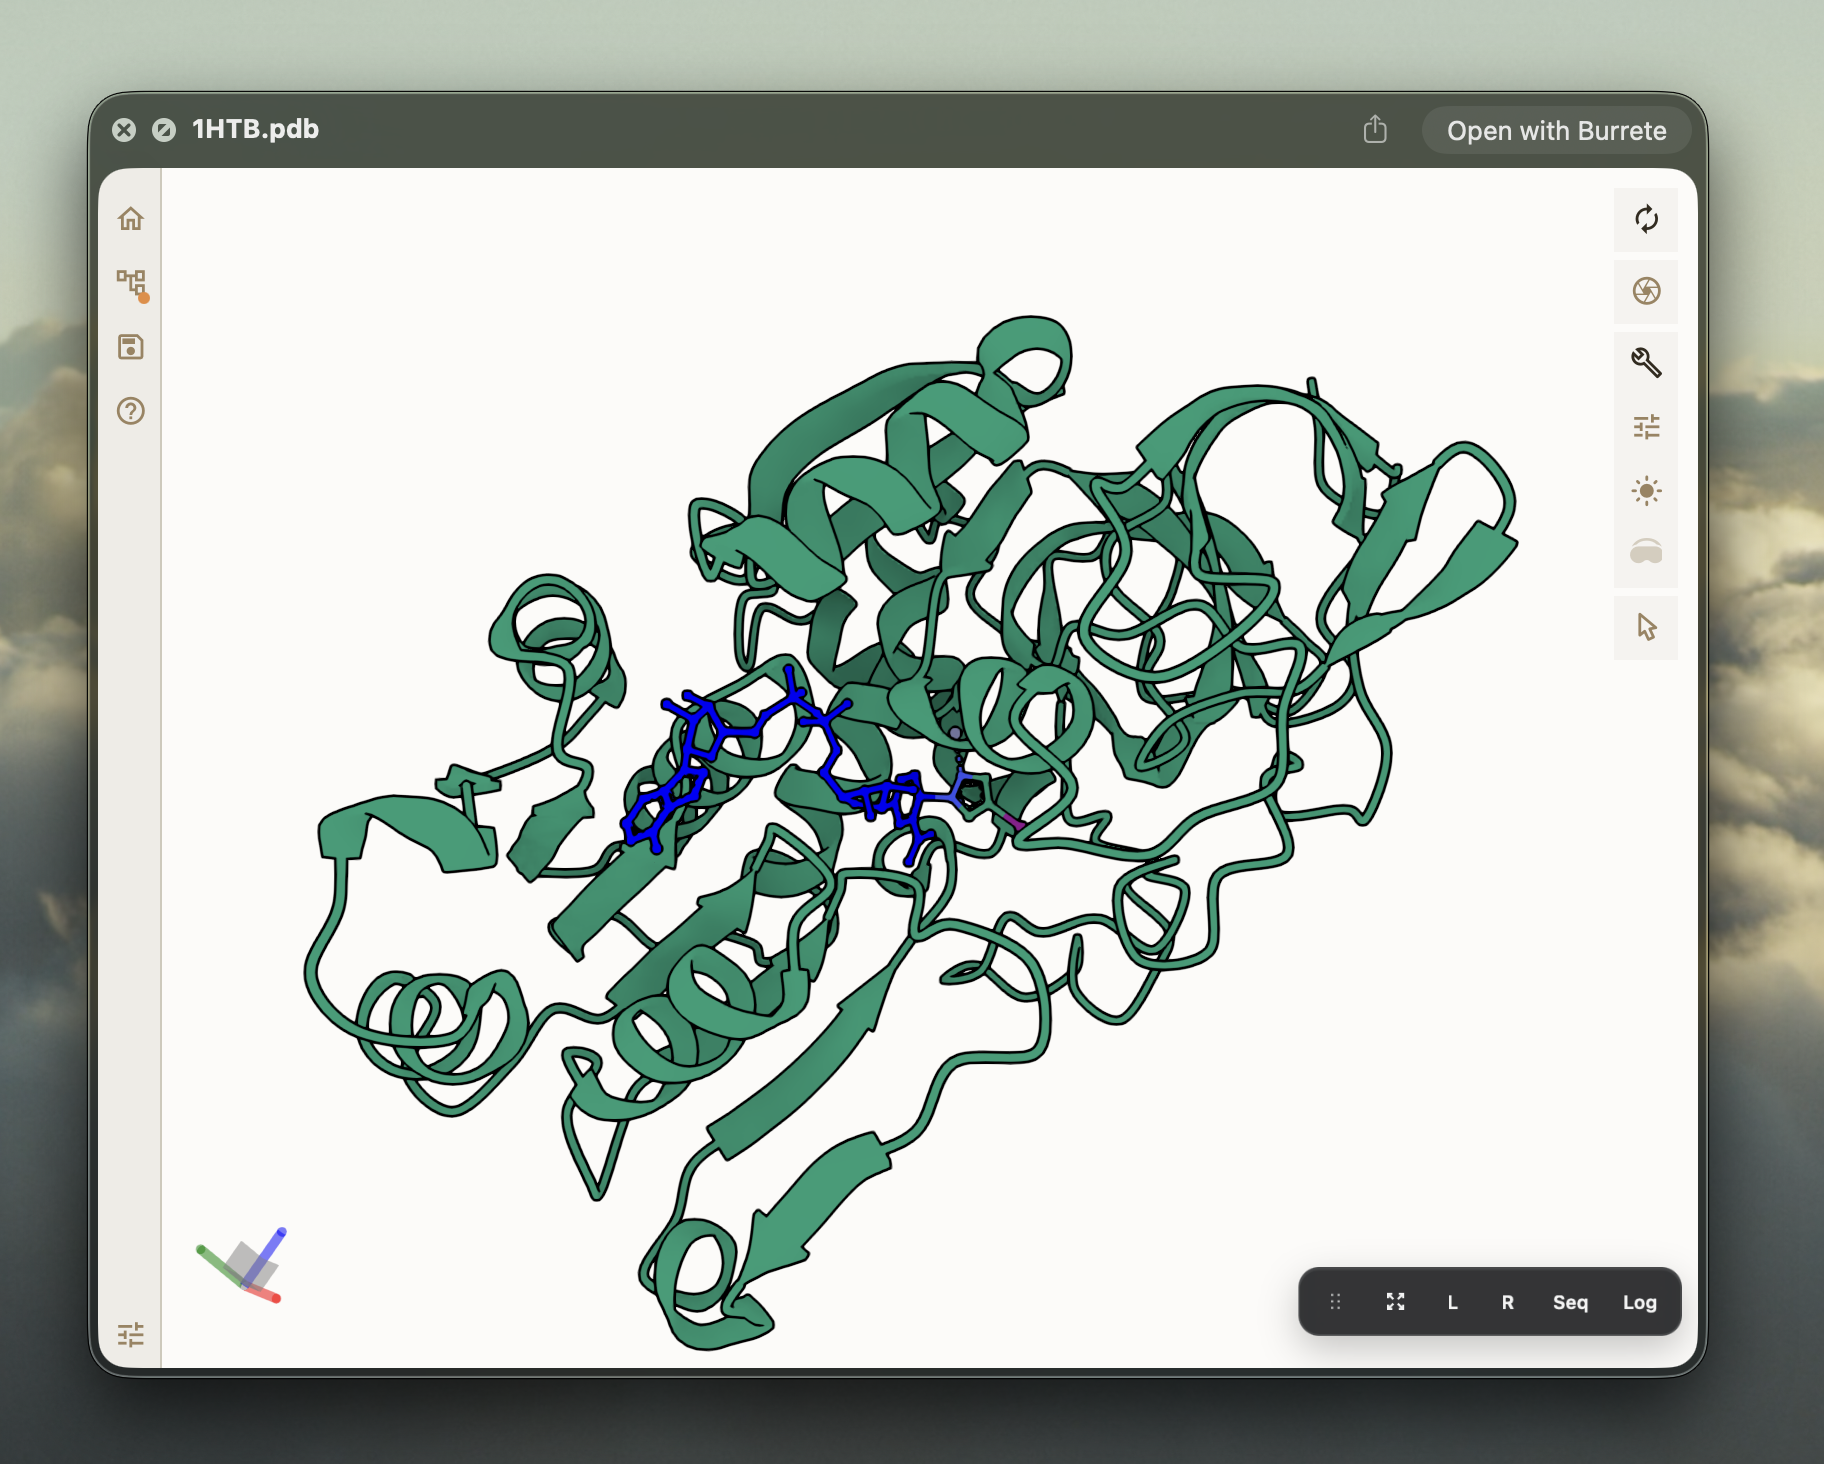
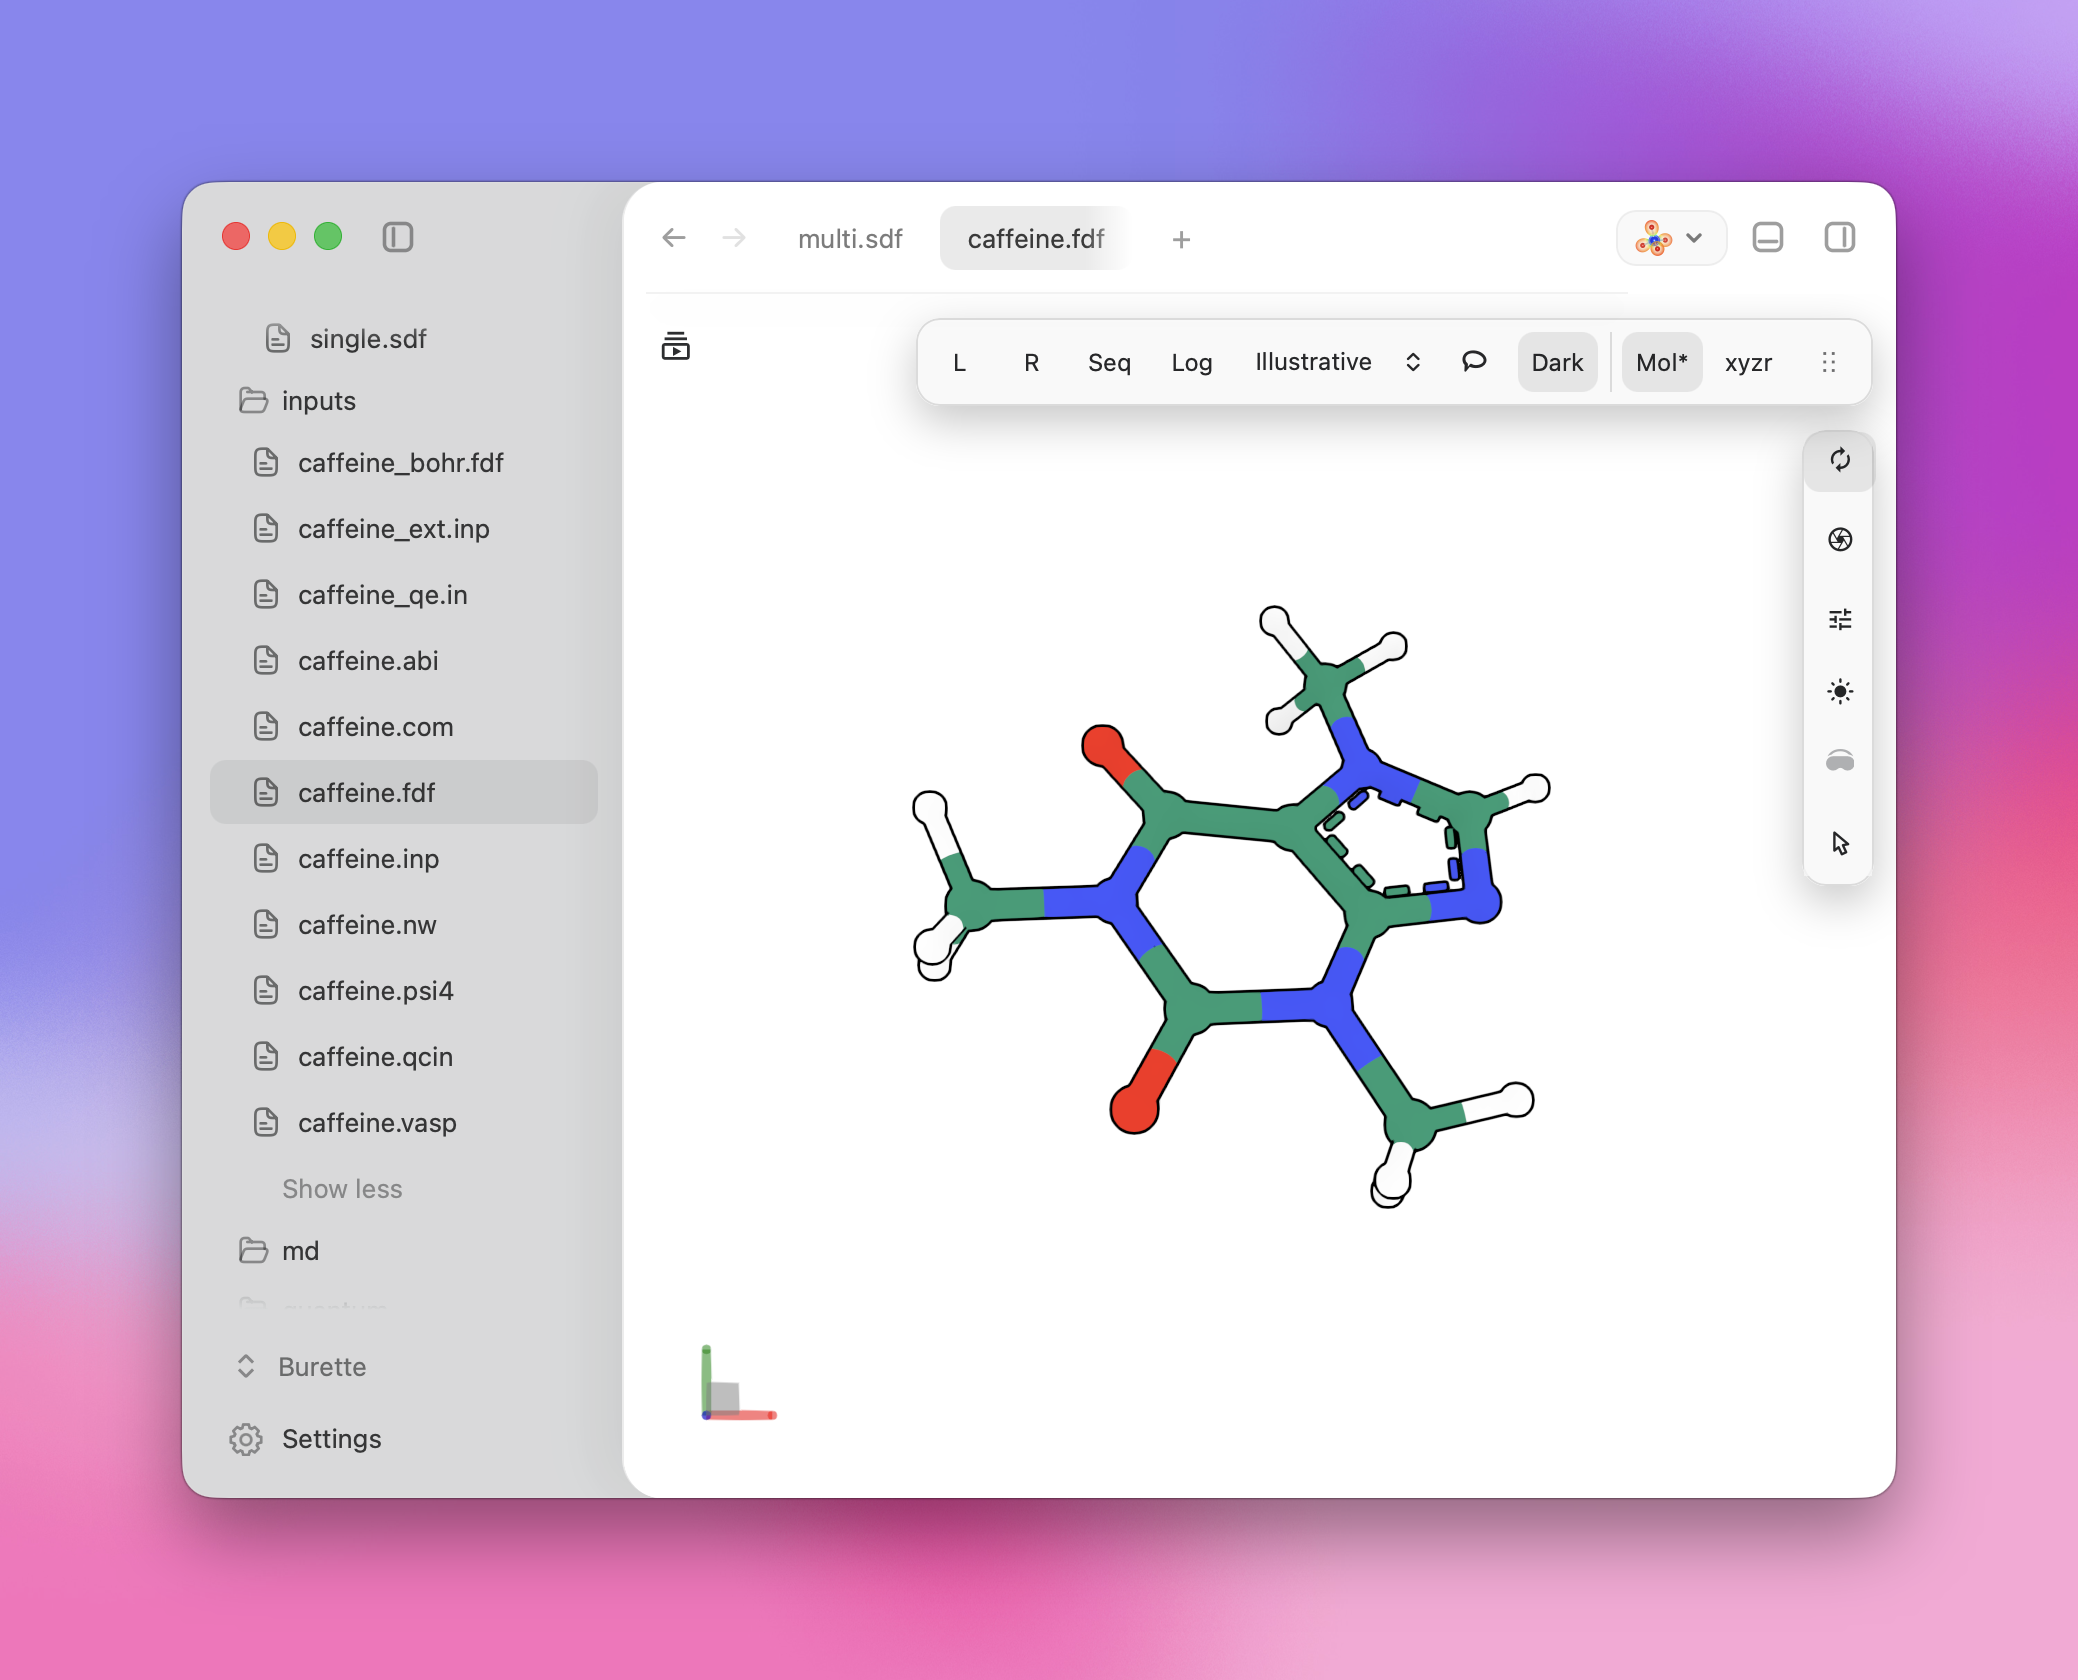
Update README preview image

diff --git a/README.md b/README.md
@@ -16,7 +16,7 @@
 </p>
 
 <p align="center">
-  <img src="docs/public/burrete-quick-look-preview.png" alt="Burrete Quick Look preview of 1HTB.pdb" width="90%" />
+  <img src="docs/public/burrete-quick-look-preview.png" alt="Burrete desktop preview of caffeine.fdf" width="90%" />
 </p>
 
 ## What Is Burrete?
